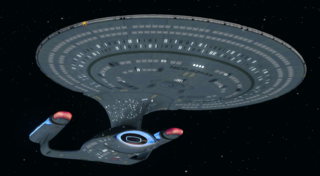
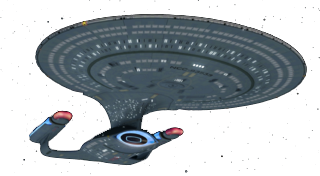
class for creating ships

diff --git a/src/scene/Main.ts b/src/scene/Main.ts
@@ -1,6 +1,12 @@
+import { CreateShip } from "../CreateShip";
+
 class Main extends Phaser.Scene {
     private background: Phaser.GameObjects.Sprite;
-    private GalaxyClass: Phaser.GameObjects.Image;
+
+    private ship1: CreateShip;
+
+    //private galaxyClass: Phaser.GameObjects.Image;
+    private text: Phaser.GameObjects.Text;
 
     constructor() {
         super("main");
@@ -11,15 +17,38 @@ class Main extends Phaser.Scene {
         this.background.setPosition(this.cameras.main.width / 2, this.cameras.main.height / 2);
         this.add.existing(this.background);
 
-        this.GalaxyClass = new Phaser.GameObjects.Image(this, 100, 100, "GalaxyClass");
-        this.GalaxyClass.setPosition(this.cameras.main.width / 4, this.cameras.main.height / 4);
-        this.add.existing(this.GalaxyClass);
-
-        
+        this.ship1 = new CreateShip(this, this.cameras.main.width / 6 , this.cameras.main.height / 2, "galaxyClass");
+        this.add.existing(this.ship1);
         /*
-        let text: Phaser.GameObjects.Text = this.add.text(100, 100, "Game should be here!");
-        text.setFontSize(36);
+        this.galaxyClass = new Phaser.GameObjects.Image(this, this.cameras.main.width / 6 , this.cameras.main.height / 2, "galaxyClass").setInteractive();
+        this.add.existing(this.galaxyClass);
+
+        this.galaxyClass.on('pointerdown', function (pointer) {
+            this.setTint(0xff0000);
+            this.x += 100;
+        })
+
+        this.galaxyClass.on('pointerout', function (pointer) {
+
+            this.clearTint();
+    
+        });
+
+        this.galaxyClass.on('pointerup', function (pointer) {
+
+            this.clearTint();
+    
+        });
         */
+        
+        this.text = this.add.text(this.cameras.main.width / 2, this.cameras.main.height / 2, "Reset").setInteractive();
+        this.text.setFontSize(28);
+        
+        this.text.on('pointerdown', function (pointer) {
+            this.setTint(0xff0000);
+            
+        })
+
     }
 }
 

diff --git a/src/scene/Preload.ts b/src/scene/Preload.ts
@@ -42,7 +42,7 @@ class Preload extends Phaser.Scene {
         this.load.image("background", "assets/images/background.png");
         this.load.atlas("foreground", "assets/images/foreground.png", "assets/images/foreground.json");
 
-        this.load.image("GalaxyClass", "assets/images/GalaxyClass.png");
+        this.load.image("galaxyClass", "assets/images/GalaxyClass.png");
 
         //audio
         this.load.audio("laser1", ["assets/audio/laser1.ogg", "assets/audio/laser1.mp3", "assets/audio/laser1.m4a"]);

diff --git a/src/CreateShip.ts b/src/CreateShip.ts
@@ -1,0 +1,9 @@
+class CreateShip extends Phaser.GameObjects.Sprite {
+
+    constructor(scene: Phaser.Scene, x: number, y: number, texture: string) {
+        super(scene, x, y, texture)
+    }
+    
+}
+
+export { CreateShip }
